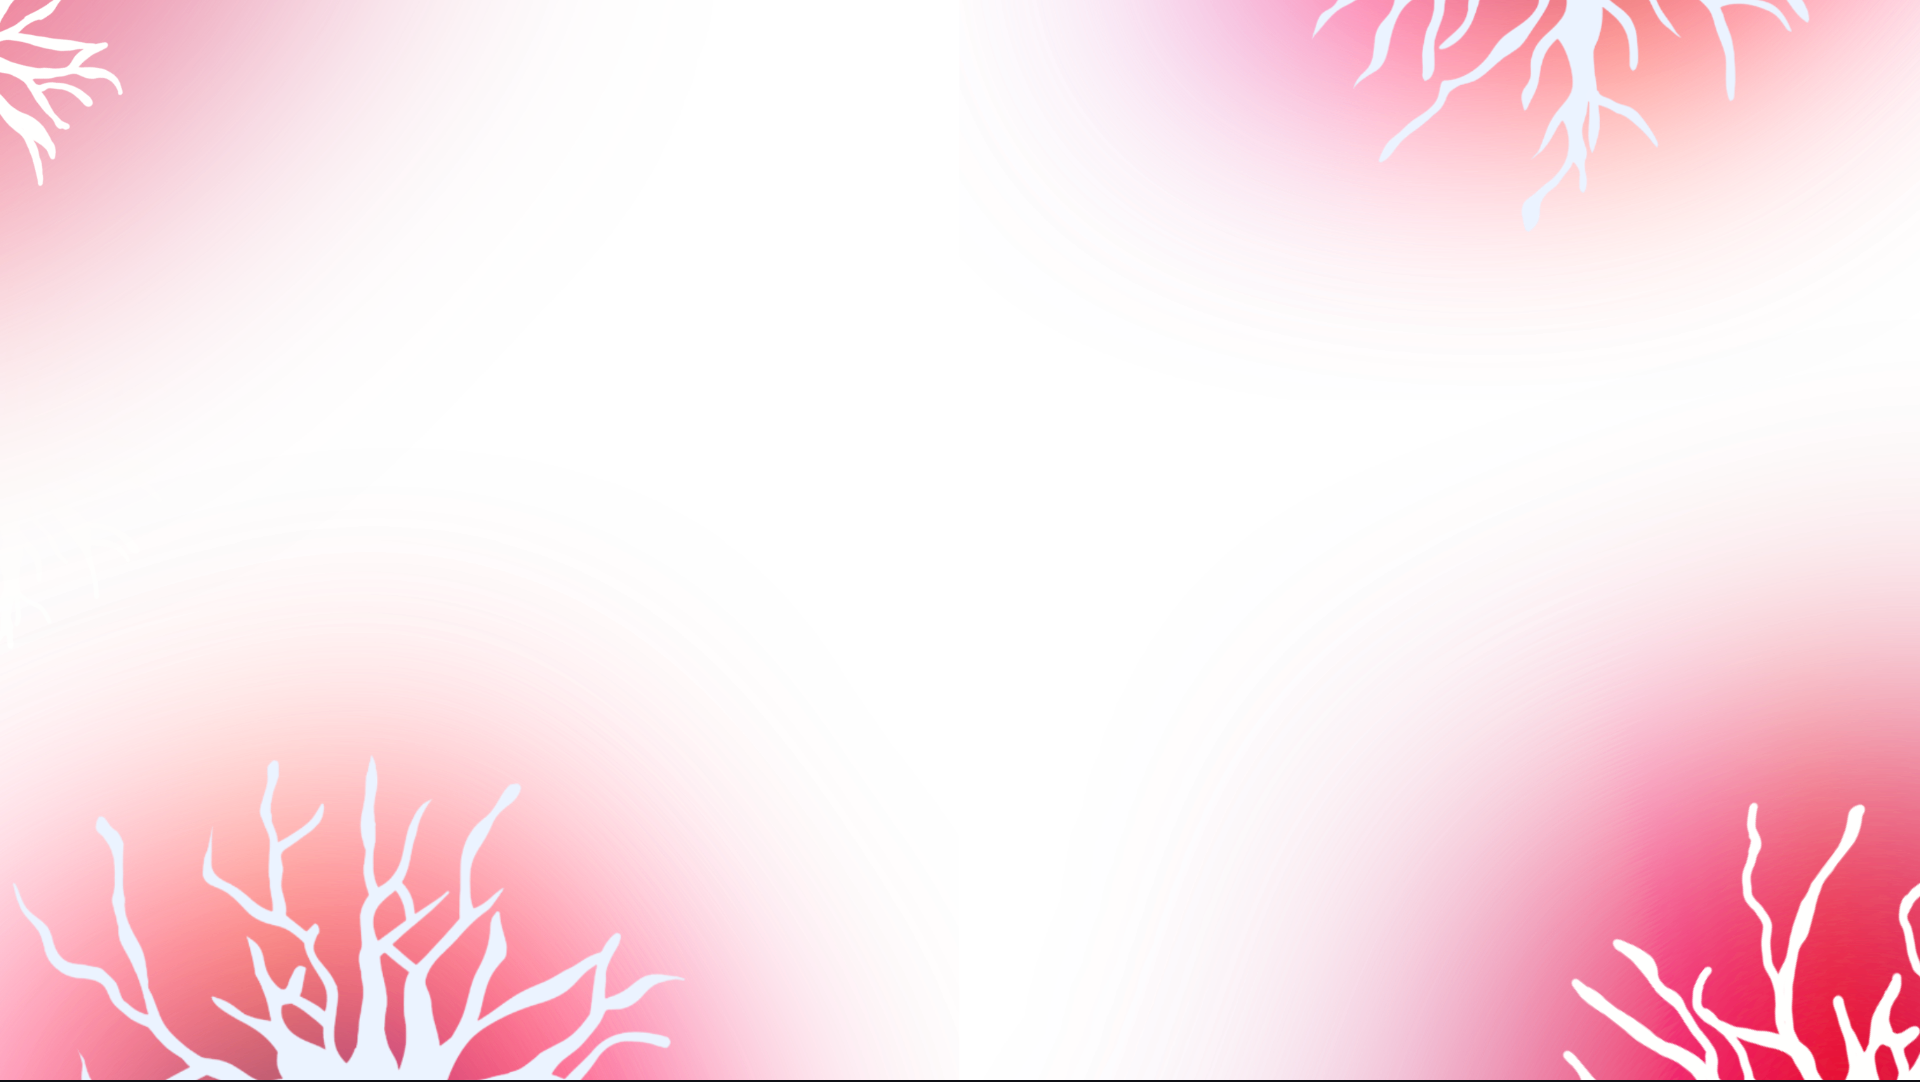
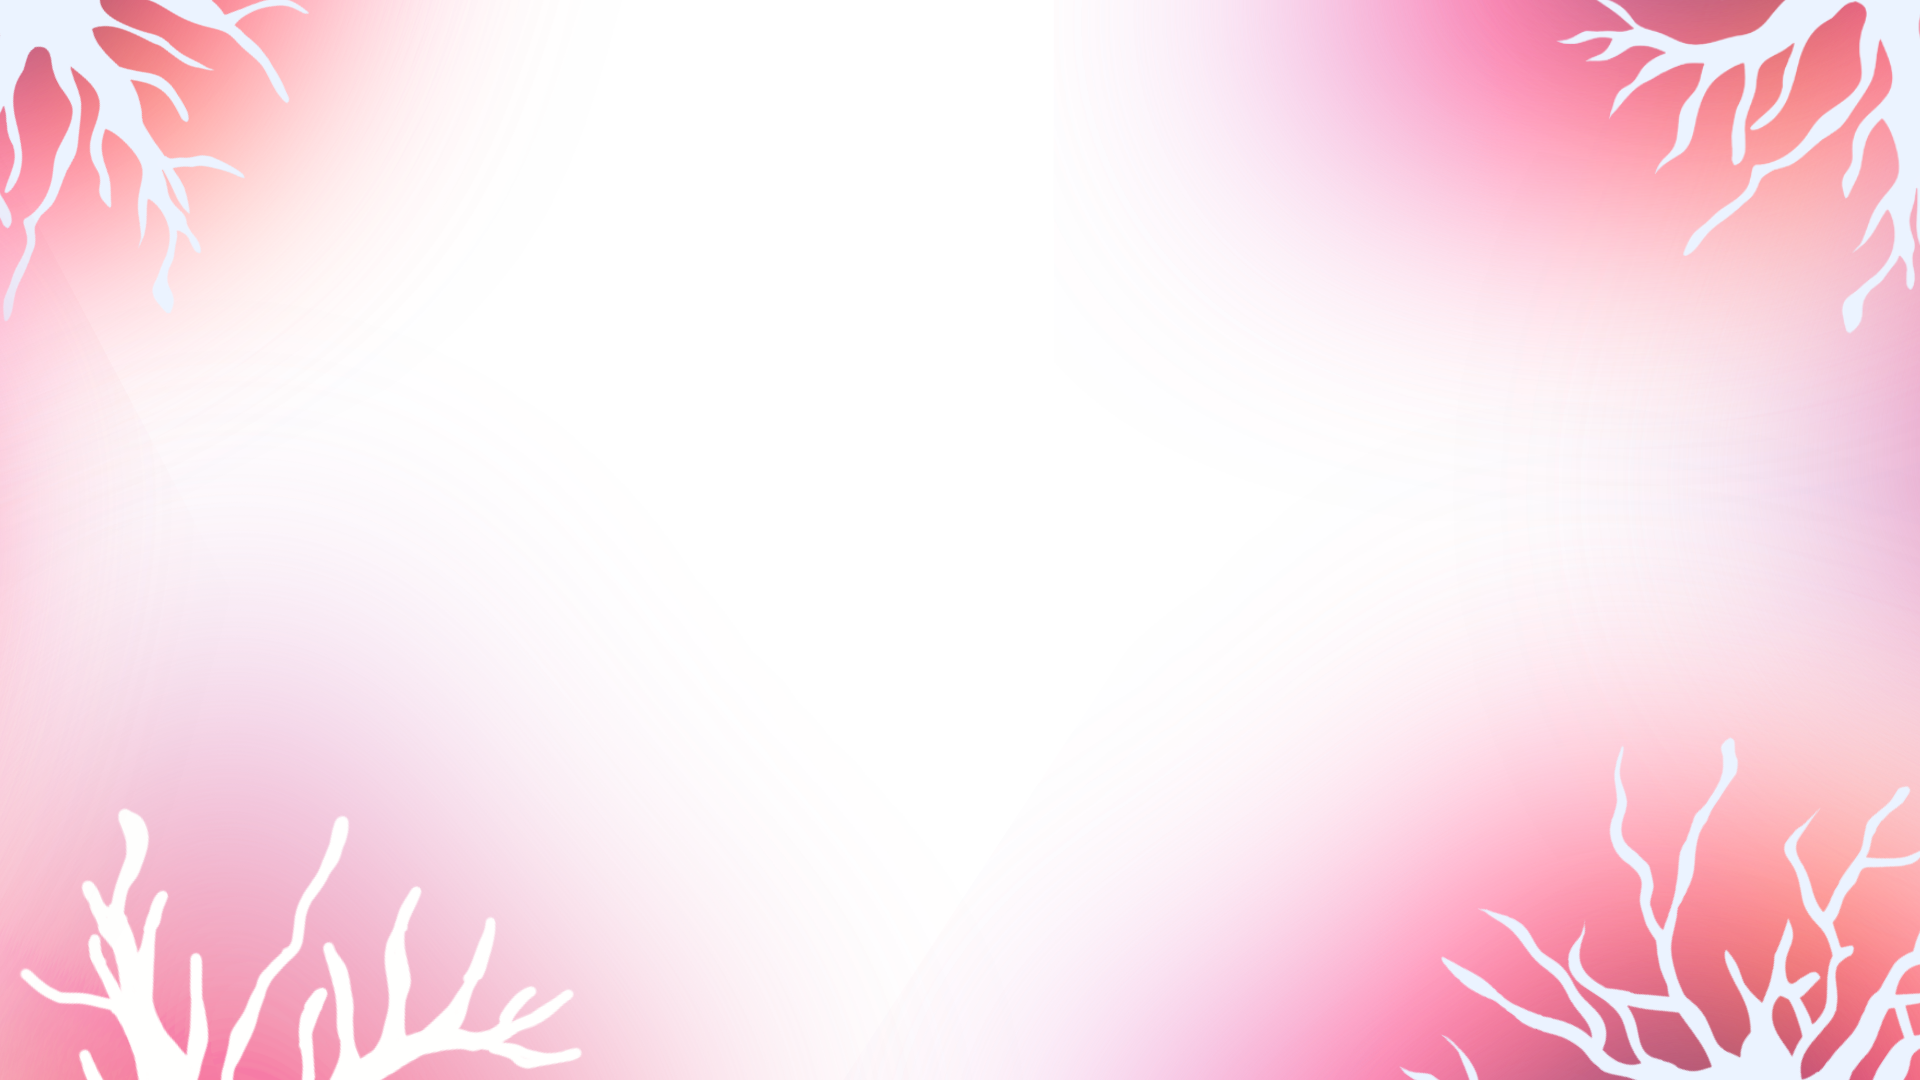
Add sticky-hero crossfade and global background, remove section overlays
- Hero section now pins a transparent PSNG logo over the background,
  then crossfades into the hero content/CTAs/partner logo strip on
  scroll (scroll-position driven via window.scrollY, avoiding
  framer-motion's target-rect tracking glitch with position: sticky)
- Add a single global fixed background image, full opacity in the
  hero and 50% opacity for the rest of the site via an overlay
- Add partner/cooperation logo strip below the hero CTAs, each
  linking out to the respective organization
- Remove gradient-soft/bg-background overlays from sections so the
  global background is visible throughout
- Disable rubber-band/overscroll bounce site-wide

diff --git a/src/components/HeroSection.tsx b/src/components/HeroSection.tsx
@@ -1,77 +1,191 @@
-import React from "react";
-import { motion } from "framer-motion";
-import heroBg from "@/assets/hero-bg.png";
+import React, { useEffect, useRef } from "react";
+import { motion, useMotionValue, useTransform } from "framer-motion";
+import psngLogo from "@/assets/PSNG-Logo-centered-transparent.png";
+import alpsLogo from "@/assets/ALPS-Logo.png";
+import spsnLogo from "@/assets/SPSN-Logo.png";
+import unepsiLogo from "@/assets/UNEPSI-Logo.png";
+import psychedelicareLogo from "@/assets/PsychedeliCare-Logo.png";
+import psychedelicGermanyLogo from "@/assets/Psychedelic-Germany-Logo.png";
+import nachtschattenLogo from "@/assets/Nachtschatten-Logo.png";
+import psychedeliaStiftungLogo from "@/assets/Psychedelia-Stiftung-Logo.png";
 
 const whatsappLink = "https://chat.whatsapp.com/LBUA3UpzOV9BW1v59EZK8w?mode=gi_t";
 
-const HeroSection = () => {
-  return (
-    <section className="relative min-h-screen flex items-center justify-center overflow-hidden">
-      <div
-        className="absolute inset-0 bg-cover bg-center"
-        style={{ backgroundImage: `url(${heroBg})` }}
-      />
-      <div className="absolute inset-0 bg-gradient-to-b from-transparent via-transparent to-background/80" />
+const partnerLogos = [
+  { name: "ALPS Foundation", logo: alpsLogo, url: "https://alps.foundation" },
+  {
+    name: "Swiss Psychedelic Student Network",
+    logo: spsnLogo,
+    url: "https://www.instagram.com/swisspsychedelicstudentnetwork/",
+  },
+  {
+    name: "UNePSI – Italy",
+    logo: unepsiLogo,
+    url: "https://www.instagram.com/_unepsi_/",
+  },
+  {
+    name: "PsychedeliCare",
+    logo: psychedelicareLogo,
+    url: "https://psychedelicare.eu",
+  },
+  {
+    name: "Psychedelic Germany",
+    logo: psychedelicGermanyLogo,
+    url: "https://psychedelic-germany.de",
+  },
+  {
+    name: "Nachtschatten Verlag",
+    logo: nachtschattenLogo,
+    url: "https://nachtschatten.ch/",
+  },
+  {
+    name: "Psychedelia Stiftung",
+    logo: psychedeliaStiftungLogo,
+    url: "https://psychedelia-stiftung.de/",
+  },
+];
 
-      <div className="relative z-10 container mx-auto px-6 text-center">
-        <motion.p
-          initial={{ opacity: 0, y: 20 }}
-          animate={{ opacity: 1, y: 0 }}
-          transition={{ duration: 0.6 }}
-          className="font-heading text-sm uppercase tracking-[0.3em] text-foreground/60 mb-6"
-        >
-          Psychedelic Student Network Germany
-        </motion.p>
-        <motion.h1
-          initial={{ opacity: 0, y: 30 }}
-          animate={{ opacity: 1, y: 0 }}
-          transition={{ duration: 0.8, delay: 0.2 }}
-          className="font-heading text-4xl md:text-6xl lg:text-7xl font-bold text-foreground leading-tight mb-8"
-        >
-          Psychedelische
-          <br />
-          <span className="gradient-text">Forschung</span>
-          <br />
-          verbindet
-        </motion.h1>
-        <motion.p
-          initial={{ opacity: 0, y: 20 }}
-          animate={{ opacity: 1, y: 0 }}
-          transition={{ duration: 0.6, delay: 0.5 }}
-          className="text-foreground/70 text-lg md:text-xl max-w-2xl mx-auto mb-10 font-body"
-        >
-          Deutschlands erstes bundesweites studentisches Netzwerk für
-          psychedelische Wissenschaft. Gestartet am 03. März 2026.
-        </motion.p>
+const HeroSection = () => {
+  const containerRef = useRef<HTMLDivElement>(null);
+  const scrollY = useMotionValue(0);
+  const pinRange = useMotionValue(
+    typeof window !== "undefined" ? window.innerHeight * 1.1 : 1
+  );
+
+  useEffect(() => {
+    const update = () => {
+      pinRange.set(window.innerHeight * 1.1);
+      scrollY.set(window.scrollY);
+    };
+    update();
+    window.addEventListener("scroll", update, { passive: true });
+    window.addEventListener("resize", update);
+    return () => {
+      window.removeEventListener("scroll", update);
+      window.removeEventListener("resize", update);
+    };
+  }, [scrollY, pinRange]);
+
+  const logoOpacity = useTransform([scrollY, pinRange], ([sy, pr]: number[]) => {
+    const start = pr * 0.6;
+    const end = pr * 0.85;
+    const t = (sy - start) / (end - start);
+    return Math.max(0, Math.min(1, 1 - t));
+  });
+
+  const heroOpacity = useTransform([scrollY, pinRange], ([sy, pr]: number[]) => {
+    const start = pr * 0.75;
+    const end = pr * 1.0;
+    const t = (sy - start) / (end - start);
+    return Math.max(0, Math.min(1, t));
+  });
+
+  return (
+    <div ref={containerRef} className="relative h-[210vh]">
+      <div className="sticky top-0 h-screen overflow-hidden">
         <motion.div
-          initial={{ opacity: 0, y: 20 }}
-          animate={{ opacity: 1, y: 0 }}
-          transition={{ duration: 0.6, delay: 0.7 }}
-          className="flex flex-col sm:flex-row gap-4 justify-center"
+          style={{ opacity: logoOpacity }}
+          className="absolute inset-0 flex items-center justify-center pointer-events-none"
         >
-          <a
-            href={whatsappLink}
-            target="_blank"
-            rel="noopener noreferrer"
-            className="inline-flex items-center justify-center px-8 py-3 rounded-lg gradient-psychedelic text-primary-foreground font-heading font-medium text-sm hover:opacity-90 transition-opacity"
-          >
-            WhatsApp beitreten
-          </a>
-          <a
-            href="#leitfaden"
-            className="inline-flex items-center justify-center px-8 py-3 rounded-lg border border-primary/30 text-primary font-heading font-medium text-sm hover:bg-primary/5 transition-colors"
-          >
-            Eigene Gruppe gründen
-          </a>
-          <a
-            href="#uber-uns"
-            className="inline-flex items-center justify-center px-8 py-3 rounded-lg border border-primary/30 text-primary font-heading font-medium text-sm hover:bg-primary/5 transition-colors"
-          >
-            Mehr erfahren
-          </a>
+          <img
+            src={psngLogo}
+            alt="PSNG Logo"
+            className="w-2/3 max-w-xl object-contain"
+          />
+        </motion.div>
+
+        <motion.div
+          style={{ opacity: heroOpacity }}
+          className="absolute inset-0 flex items-center justify-center"
+        >
+          <div className="container mx-auto px-6 text-center">
+            <motion.p
+              initial={{ opacity: 0, y: 20 }}
+              animate={{ opacity: 1, y: 0 }}
+              transition={{ duration: 0.6 }}
+              className="font-heading text-sm uppercase tracking-[0.3em] text-foreground/60 mb-6"
+            >
+              Psychedelic Student Network Germany
+            </motion.p>
+            <motion.h1
+              initial={{ opacity: 0, y: 30 }}
+              animate={{ opacity: 1, y: 0 }}
+              transition={{ duration: 0.8, delay: 0.2 }}
+              className="font-heading text-4xl md:text-6xl lg:text-7xl font-bold text-foreground leading-tight mb-8"
+            >
+              Psychedelische
+              <br />
+              <span className="gradient-text">Forschung</span>
+              <br />
+              verbindet
+            </motion.h1>
+            <motion.p
+              initial={{ opacity: 0, y: 20 }}
+              animate={{ opacity: 1, y: 0 }}
+              transition={{ duration: 0.6, delay: 0.5 }}
+              className="text-foreground/70 text-lg md:text-xl max-w-2xl mx-auto mb-10 font-body"
+            >
+              Deutschlands erstes bundesweites studentisches Netzwerk für
+              psychedelische Wissenschaft. Gestartet am 03. März 2026.
+            </motion.p>
+            <motion.div
+              initial={{ opacity: 0, y: 20 }}
+              animate={{ opacity: 1, y: 0 }}
+              transition={{ duration: 0.6, delay: 0.7 }}
+              className="flex flex-col sm:flex-row gap-4 justify-center"
+            >
+              <a
+                href={whatsappLink}
+                target="_blank"
+                rel="noopener noreferrer"
+                className="inline-flex items-center justify-center px-8 py-3 rounded-lg gradient-psychedelic text-primary-foreground font-heading font-medium text-sm hover:opacity-90 transition-opacity"
+              >
+                WhatsApp beitreten
+              </a>
+              <a
+                href="#leitfaden"
+                className="inline-flex items-center justify-center px-8 py-3 rounded-lg border border-primary/30 text-primary font-heading font-medium text-sm hover:bg-primary/5 transition-colors"
+              >
+                Eigene Gruppe gründen
+              </a>
+              <a
+                href="#uber-uns"
+                className="inline-flex items-center justify-center px-8 py-3 rounded-lg border border-primary/30 text-primary font-heading font-medium text-sm hover:bg-primary/5 transition-colors"
+              >
+                Mehr erfahren
+              </a>
+            </motion.div>
+            <motion.div
+              initial={{ opacity: 0, y: 20 }}
+              animate={{ opacity: 1, y: 0 }}
+              transition={{ duration: 0.6, delay: 0.9 }}
+              className="mt-16"
+            >
+              <p className="font-heading text-xs uppercase tracking-[0.2em] text-foreground/40 mb-5">
+                In Kooperation mit
+              </p>
+              <div className="flex flex-wrap items-center justify-center gap-x-8 gap-y-4">
+                {partnerLogos.map((partner) => (
+                  <a
+                    key={partner.name}
+                    href={partner.url}
+                    target="_blank"
+                    rel="noopener noreferrer"
+                    aria-label={partner.name}
+                  >
+                    <img
+                      src={partner.logo}
+                      alt={partner.name}
+                      className="h-8 max-w-[100px] object-contain opacity-50 grayscale hover:opacity-90 hover:grayscale-0 transition-all"
+                    />
+                  </a>
+                ))}
+              </div>
+            </motion.div>
+          </div>
         </motion.div>
       </div>
-    </section>
+    </div>
   );
 };
 

diff --git a/src/pages/Index.tsx b/src/pages/Index.tsx
@@ -1,3 +1,4 @@
+import heroBg from "@/assets/hero-bg.png";
 import Navbar from "@/components/Navbar";
 import HeroSection from "@/components/HeroSection";
 import AboutSection from "@/components/AboutSection";
@@ -13,7 +14,12 @@ import Highlights from "@/components/Highlights";
 
 const Index = () => {
   return (
-    <div className="min-h-screen bg-background">
+    <div className="relative min-h-screen">
+      <div
+        className="fixed inset-0 -z-20 bg-cover bg-center"
+        style={{ backgroundImage: `url(${heroBg})` }}
+      />
+      <div className="absolute top-[210vh] left-0 right-0 bottom-0 -z-20 bg-background/50" />
       <Navbar />
       <HeroSection />
       <AboutSection />

diff --git a/src/components/AboutSection.tsx b/src/components/AboutSection.tsx
@@ -30,7 +30,7 @@ const pillars = [
 
 const AboutSection = () => {
   return (
-    <section id="uber-uns" className="py-24 md:py-32 bg-background">
+    <section id="uber-uns" className="py-24 md:py-32">
       <div className="container mx-auto px-6">
         <motion.div
           initial={{ opacity: 0, y: 30 }}
@@ -60,7 +60,7 @@ const AboutSection = () => {
           whileInView={{ opacity: 1, y: 0 }}
           viewport={{ once: true }}
           transition={{ duration: 0.6, delay: 0.2 }}
-          className="max-w-3xl mx-auto text-center mb-16 p-8 rounded-2xl gradient-soft border border-border"
+          className="max-w-3xl mx-auto text-center mb-16 p-8 rounded-2xl border border-border"
         >
           <h3 className="font-heading text-xl font-semibold text-foreground mb-3">
             Unsere Vision

diff --git a/src/index.css b/src/index.css
@@ -62,6 +62,10 @@
     @apply border-border;
   }
 
+  html {
+    overscroll-behavior-y: none;
+  }
+
   body {
     @apply bg-background text-foreground font-body antialiased;
   }

diff --git a/src/components/ContactSection.tsx b/src/components/ContactSection.tsx
@@ -61,7 +61,7 @@ const ContactSection = () => {
   };
 
   return (
-    <section id="kontakt" className="py-24 md:py-32 bg-background">
+    <section id="kontakt" className="py-24 md:py-32">
       <div className="container mx-auto px-6">
         <motion.div
           initial={{ opacity: 0, y: 30 }}

diff --git a/src/components/EventsSection.tsx b/src/components/EventsSection.tsx
@@ -10,7 +10,7 @@ const EventsSection = () => {
   );
 
   return (
-    <section id="events" className="py-24 md:py-32 gradient-soft">
+    <section id="events" className="py-24 md:py-32">
       <div className="container mx-auto px-6">
         <SectionHeader
           eyebrow="Events"

diff --git a/src/components/FAQSection.tsx b/src/components/FAQSection.tsx
@@ -31,7 +31,7 @@ const faqs = [
 
 const FAQSection = () => {
   return (
-    <section id="faq" className="py-24 md:py-32 bg-background">
+    <section id="faq" className="py-24 md:py-32">
       <div className="container mx-auto px-6">
         <motion.div
           initial={{ opacity: 0, y: 30 }}

diff --git a/src/components/PartnersSection.tsx b/src/components/PartnersSection.tsx
@@ -69,7 +69,7 @@ const partners = [
 
 const PartnersSection = () => {
   return (
-    <section id="kooperation" className="py-24 md:py-32 bg-background">
+    <section id="kooperation" className="py-24 md:py-32">
       <div className="container mx-auto px-6">
         <motion.div
           initial={{ opacity: 0, y: 30 }}

diff --git a/src/components/PresenceSection.tsx b/src/components/PresenceSection.tsx
@@ -4,7 +4,7 @@ import icprPhoto from "@/assets/icpr-1.jpg";
 
 const PresenceSection = () => {
   return (
-    <section id="presence" className="py-24 md:py-32 bg-background">
+    <section id="presence" className="py-24 md:py-32">
       <div className="container mx-auto px-6">
         <motion.div
           initial={{ opacity: 0, y: 30 }}

diff --git a/src/components/TeamSection.tsx b/src/components/TeamSection.tsx
@@ -50,7 +50,7 @@ const team = [
 
 const TeamSection = () => {
   return (
-    <section id="team" className="py-24 md:py-32 gradient-soft">
+    <section id="team" className="py-24 md:py-32">
       <div className="container mx-auto px-6">
         <motion.div
           initial={{ opacity: 0, y: 30 }}